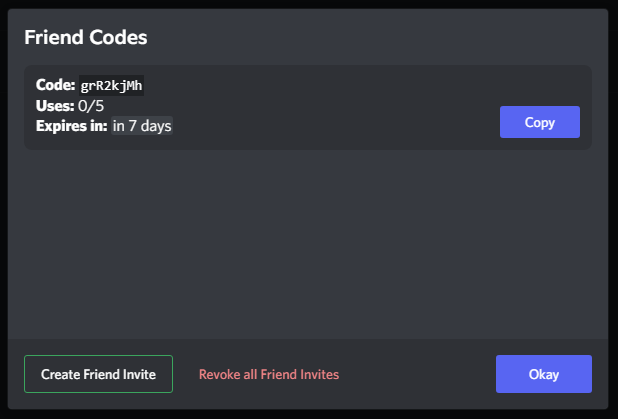
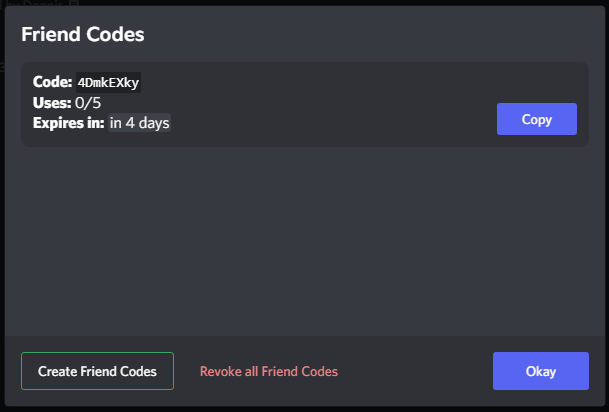
Renamed stuff

Changed region(s): [[0.0, 0.0, 0.9984, 0.9903], [0.312, 0.8738, 0.5616, 0.932]]

diff --git a/FriendCodes/components/modal.jsx b/FriendCodes/components/modal.jsx
@@ -83,9 +83,9 @@ export default function Modal(props) {
             <ModalFooter>
                 <Flex justify={Flex.Justify.BETWEEN}>
                     <Flex justify={Flex.Justify.START}>
-                        <Button color={Button.Colors.GREEN} look={Button.Looks.OUTLINED} onClick={() => createFriendInvite().then(invite => setInvites([...invites, invite]))}>Create Friend Invite</Button>
+                        <Button color={Button.Colors.GREEN} look={Button.Looks.OUTLINED} onClick={() => createFriendInvite().then(invite => setInvites([...invites, invite]))}>Create Friend Codes</Button>
                         <Flex justify={Flex.Justify.START}>
-                            <Button color={Button.Colors.RED} look={Button.Looks.LINK} disabled={!invites.length} onClick={() => revokeFriendInvites().then(setInvites([]))}>Revoke all Friend Invites</Button>
+                            <Button color={Button.Colors.RED} look={Button.Looks.LINK} disabled={!invites.length} onClick={() => revokeFriendInvites().then(setInvites([]))}>Revoke all Friend Codes</Button>
                         </Flex>
                     </Flex>
                     <Button onClick={props.onClose}>Okay</Button>
